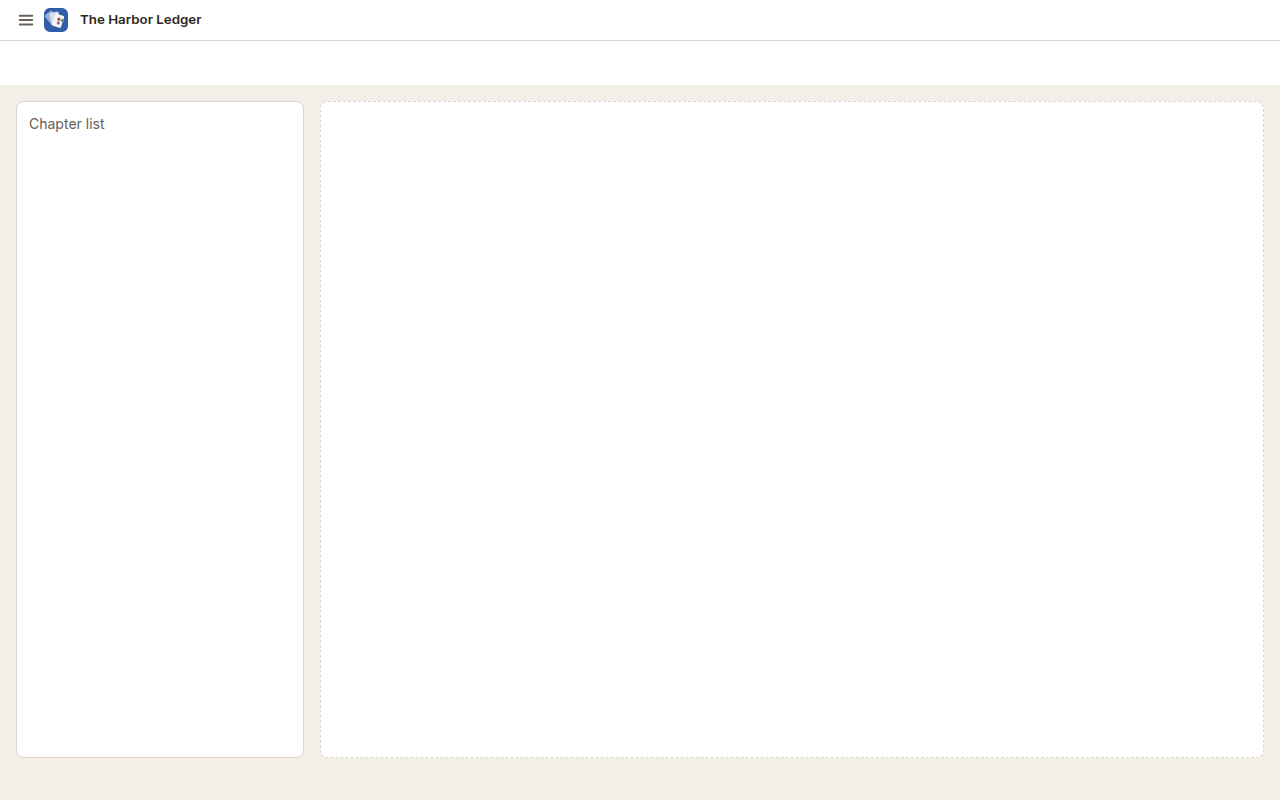
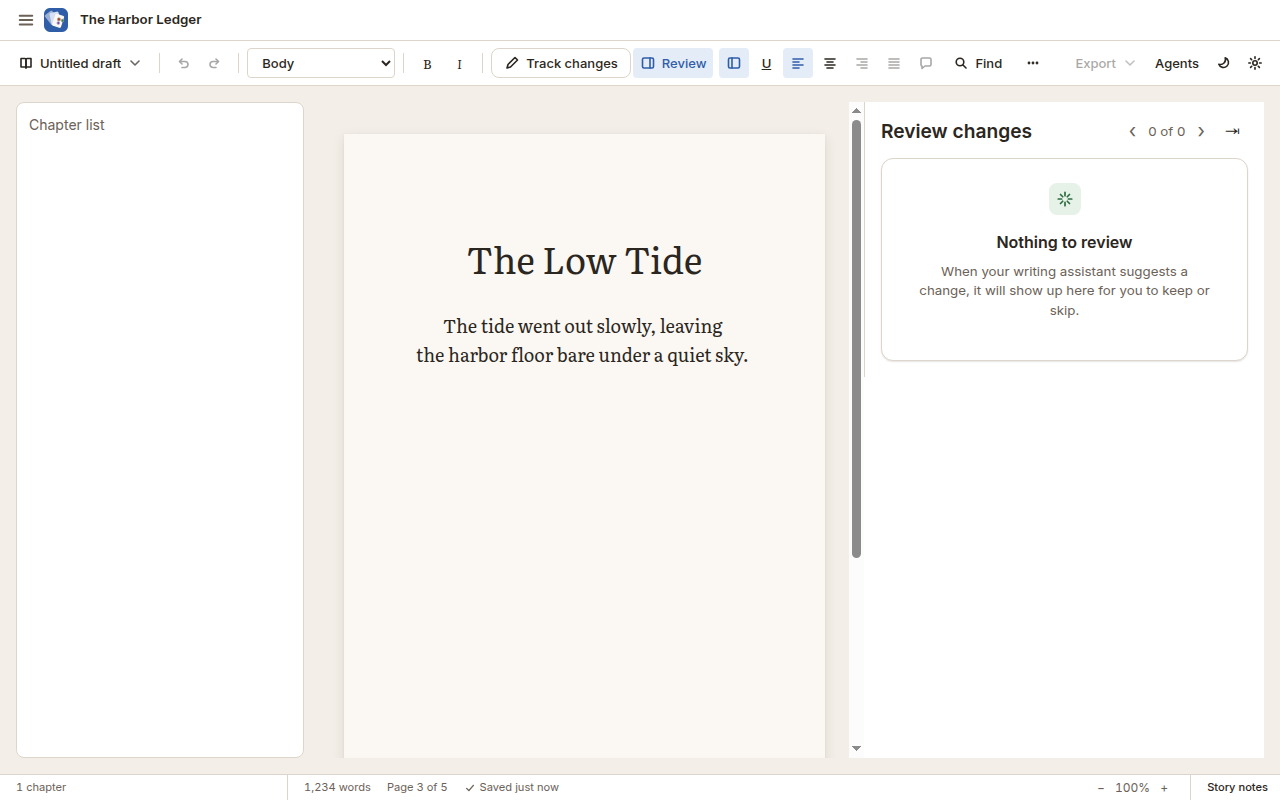
fix(#34): PR #327 evidence harness — error overlay and save-status shots
Keep the desk workspace in-flow under the ob9 scrim so ErrorCard renders, and use the real editor + footer for save-status captures at 1280×800.

diff --git a/apps/desktop/src/evidence/Rad3441PilotEvidence.vue b/apps/desktop/src/evidence/Rad3441PilotEvidence.vue
@@ -167,7 +167,7 @@ onMounted(async () => {
             />
           </div>
           <div
-            v-if="frame === 'empty-states'"
+            v-else-if="frame === 'empty-states'"
             class="workspace grid min-h-0 flex-1 grid-cols-[18rem_minmax(0,1fr)] gap-4 p-4"
             data-test="empty-states-pair"
           >
@@ -205,7 +205,7 @@ onMounted(async () => {
               :manuscript-save="manuscriptSave"
             />
             <div
-              v-else-if="frame === 'save-status' || frame === 'error-card'"
+              v-else
               class="ev3441__editor-placeholder"
               data-test="editor-placeholder"
               aria-hidden="true"
@@ -214,7 +214,7 @@ onMounted(async () => {
         </div>
       </div>
       <StatusBar
-        v-if="showEditor"
+        v-if="frame === 'save-status' || frame === 'editor'"
         class="shell__status"
         :chapter-count="1"
         :show-chapter-segment="navigatorOpen"
